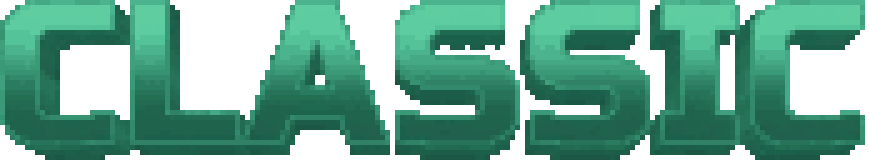
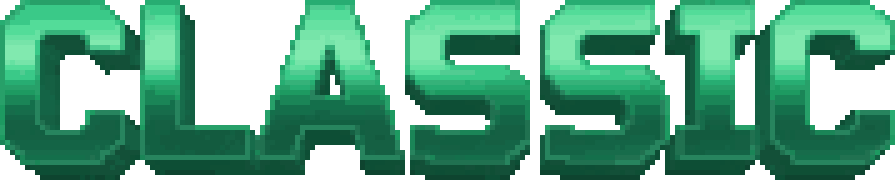
CLASSIC del selector vuelve al arte v3
Probado el v4 en el selector y David lo prefiere en v3 ahi (el
CLASSIC-word.png del LOGIN se queda en v4, son ficheros distintos a
proposito). CLASSIC.png pasa de 869x163 a 895x183, factor de la rejilla
recalculado (332/895 = 0.3709) y aspect-ratio del CSS actualizado para no
deformarlo. ARCADE.png del selector no se toca.

Verificado en el DOM: la imagen carga sin deformar (ratio en pantalla
igual al nativo) y sin roturas.

diff --git a/game/index.html b/game/index.html
@@ -1067,7 +1067,10 @@
            declarada el titulo mide cero de alto hasta que llega la imagen: la
            descripcion de debajo arrancaba subida y bajaba de golpe al cargar. */
         .mode-title .mt-img { display: none; width: 312px; height: auto; aspect-ratio: 800 / 161; }
-        .mode-classic .mt-img { width: 332px; aspect-ratio: 869 / 163; }
+        /* CLASSIC del selector en v3 (895x183): distinto arte que el ARCADE de
+           al lado (v4, 800x161) y que el CLASSIC-word.png del login (v4),
+           asi que su aspect-ratio va aparte. */
+        .mode-classic .mt-img { width: 332px; aspect-ratio: 895 / 183; }
         /* ===== Correccion tonal del arte v4, distinta por modo. El v4 viene
            apagado (el ARCADE perdio un 18% de luminancia respecto al anterior y
            se lee oliva en vez de oro), asi que se le estira el rango por CSS.

diff --git a/scripts/import-hero-art.py b/scripts/import-hero-art.py
@@ -68,13 +68,17 @@ TRABAJOS = [
     ('game/img/mode-title/raw/ARCADE-word-v4.jpg',      'game/img/mode-title/ARCADE-word.png',      'croma', None, True),
     ('game/img/mode-title/raw/PILLWARS-classic-v4.jpg', 'game/img/mode-title/PILLWARS-classic.png', 'croma', None, True),
     ('game/img/mode-title/raw/CLASSIC-word-v4.jpg',     'game/img/mode-title/CLASSIC-word.png',     'croma', None, True),
-    # Mismo arte, segundo destino: los titulos del SELECTOR de modo (la pantalla
-    # de antes del login). Van en ficheros aparte de los -word porque el CSS los
-    # pinta a otro tamano — ancho fijo de 312/332px en vez de alto fijo — y la
-    # rejilla de pixel se calcula contra el tamano de render, asi que el mismo
-    # PNG no sirve para los dos sitios.
+    # Titulos del SELECTOR de modo (la pantalla de antes del login). Van en
+    # ficheros aparte de los -word porque el CSS los pinta a otro tamano —
+    # ancho fijo de 312/332px en vez de alto fijo— y la rejilla de pixel se
+    # calcula contra el tamano de render, asi que el mismo PNG no sirve para
+    # los dos sitios.
     ('game/img/mode-title/raw/ARCADE-word-v4.jpg',      'game/img/mode-title/ARCADE.png',           'croma', None, True),
-    ('game/img/mode-title/raw/CLASSIC-word-v4.jpg',     'game/img/mode-title/CLASSIC.png',          'croma', None, True),
+    # CLASSIC del selector se queda en v3, a peticion de David — probado el v4
+    # ahi y prefiere el v3. El CLASSIC-word.png del LOGIN si sigue en v4; son
+    # ficheros distintos a proposito (ver arriba), asi que pueden ir cada uno a
+    # su version sin conflicto.
+    ('game/img/mode-title/raw/CLASSIC-word-v3.jpg',     'game/img/mode-title/CLASSIC.png',          'croma', None, True),
     # El cartel se recorta al contenido pero NO se reencuadra: el CSS situa la
     # pantalla verde con porcentajes del alto total (.cartel-inner).
     ('game/img/cartel-hero/raw/quest-panel-v2.jpg',     'game/img/cartel-hero/quest-panel-v2.png',  'croma', None, True),

diff --git a/scripts/pixelize-assets.py b/scripts/pixelize-assets.py
@@ -58,7 +58,9 @@ ASSETS = [
     # Selector de modo: aqui el CSS fija el ANCHO (312px arcade, 332px classic),
     # asi que el factor sale de ahi y no del alto.
     ('game/img/mode-title/ARCADE.png',            0.3900, 0.3900),
-    ('game/img/mode-title/CLASSIC.png',           0.3820, 0.3820),
+    # CLASSIC.png del selector volvio al arte v3 (895x183, contra 869x163 del
+    # v4): 332 / 895 = 0.3709.
+    ('game/img/mode-title/CLASSIC.png',           0.3709, 0.3709),
 ]
 
 
